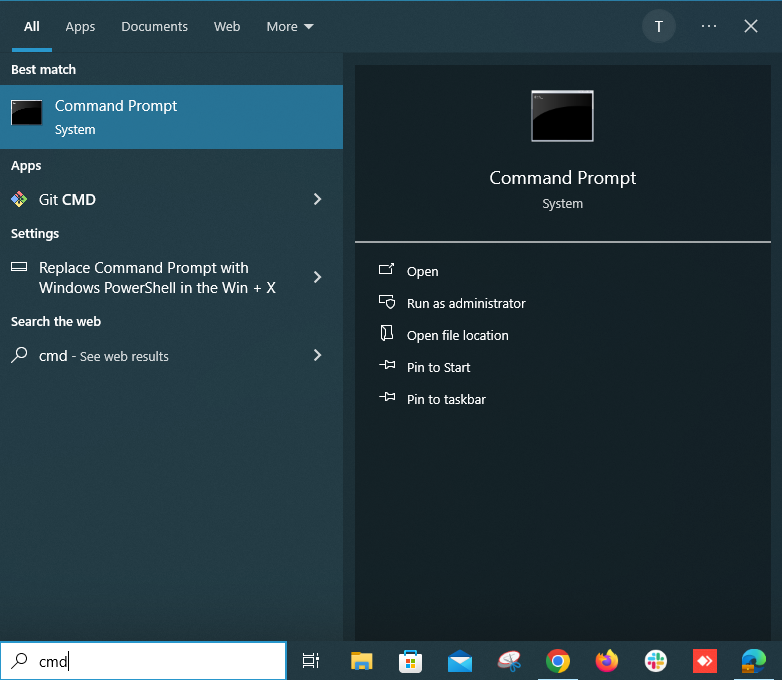
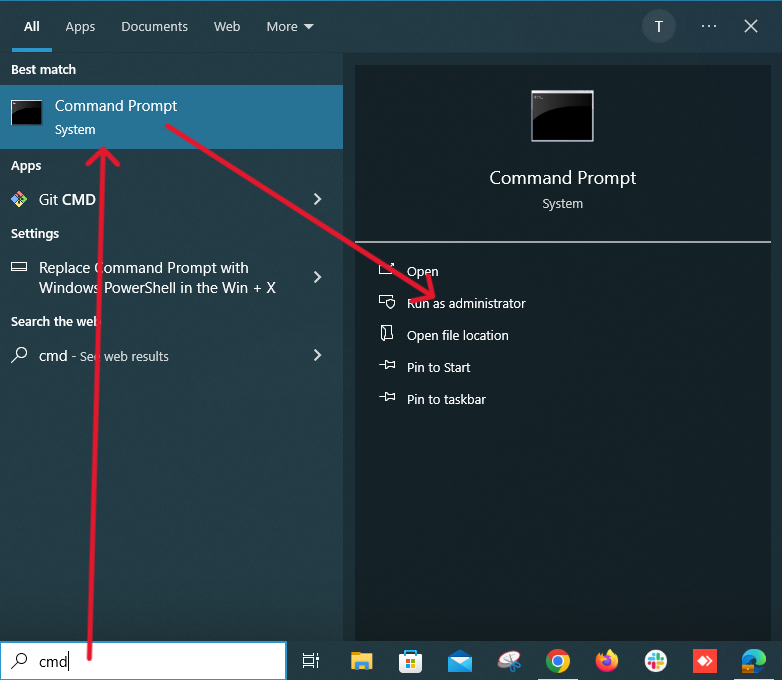
diskpart clean partition format in command prompt

diff --git a/How-to-change-disk-format(filesystem)-via-commandline/README.md b/How-to-change-disk-format(filesystem)-via-commandline/README.md
@@ -1,52 +1,93 @@
 # DiskPart Guide: Clean, Partition, Format, and Assign Letter to Disk
 
-This guide explains how to use **DiskPart** to clean a disk, create partitions, format it with a file system, and assign a drive letter.
 
-```bash
-# 1. Open Command Prompt as Administrator
-# Press Win + X and select "Command Prompt (Admin)" or "Windows PowerShell (Admin)". 
-# Alternatively, search for cmd, right-click it, and select "Run as Administrator".
 
-# 2. Launch DiskPart
-diskpart
+ 1. **Open Command Prompt as Administrator**
+ 
+ Type cmd in search bar and select "Command Prompt (Admin)
 
-# 3. List All Disks
-# List all available disks to identify the disk you want to clean.
-list disk
+![Alt text](./cmd%20as%20admin.png)
 
-# Example Output:
-# Disk ###  Status         Size     Free     Dyn  GPT
-# --------  -------------  -------  -------  ---  ---
-# Disk 0    Online         500 GB   0 B
-# Disk 1    Online         1 TB     0 B
+ Alternatively, search for cmd, right-click it, and select "Run as Administrator".
 
-# 4. Select the Disk
-# Select the disk you want to clean (replace X with the disk number).
-select disk X
+ 2. **Launch DiskPart**
+ 
+                diskpart
 
-# 5. Clean the Disk
-# Clean the selected disk, which removes all partitions and data.
-clean
+![Alt text](./diskpart.png)
 
-# For a more secure clean, use:
-clean all
+ 3. **List All Disks**
 
-# 6. Create a New Partition
-# Create a new primary partition that takes up the entire disk.
-create partition primary
+    List all available disks to identify the disk you want to clean.
+ 
+            list disk
 
-# Alternatively, to create a partition with a specific size (in MB):
-# create partition primary size=102400   # For a 100 GB partition
+ ![Alt text](./list%20disk.png)
 
-# 7. Format the Partition
-# Format the partition with the desired file system. 
-# Here, we're using NTFS as an example:
-format fs=ntfs quick
+ 
 
-# 8. Assign a Drive Letter
-# Assign a drive letter (e.g., E) to the partition.
-assign letter=E
+ 4. **Select the Disk**
 
-# 9. Exit DiskPart
-# Once all steps are completed, exit DiskPart.
-exit
+   Select the disk you want to clean (replace X with the disk number).
+  
+            select disk X
+
+ ![Alt text](./select%20disk.png)
+
+ 5. **Clean the Disk**
+
+ Clean the selected disk, which removes all partitions and data.
+ 
+            Clean
+
+ For a more secure clean, use:
+ 
+            Clean all
+
+![Alt text](./clean%20partition.png)
+
+ ### After "clean all", the disk will show as unallocated.
+    Example Output (after clean all):
+
+ ![Alt text](./unallocated.png)
+  
+
+ 6. **Create a New Partition**
+
+  Create a new primary partition that takes up the entire disk.
+
+         create partition primary
+
+
+ Alternatively, to create a partition with a specific size (in MB):
+ 
+     create partition primary size=102400   
+     
+ For a 100 GB partition
+
+ 7. **Format the Partition**
+
+Format the partition with the desired file system. 
+ Here, we're using NTFS as an   
+ 
+         Format fs=ntfs quick
+
+  ![Alt text](./format%20success.png)
+
+ 8. **Assign a Drive Letter**
+
+ Assign a drive letter (e.g., E) to the partition.
+
+         assign letter=G
+
+
+ 9. **Disk allocated**
+  
+ ![Alt text](./allocated.png)
+
+ 10. **Exit DiskPart**
+
+ Once all steps are completed, 
+ exit DiskPart.
+
+         exit
